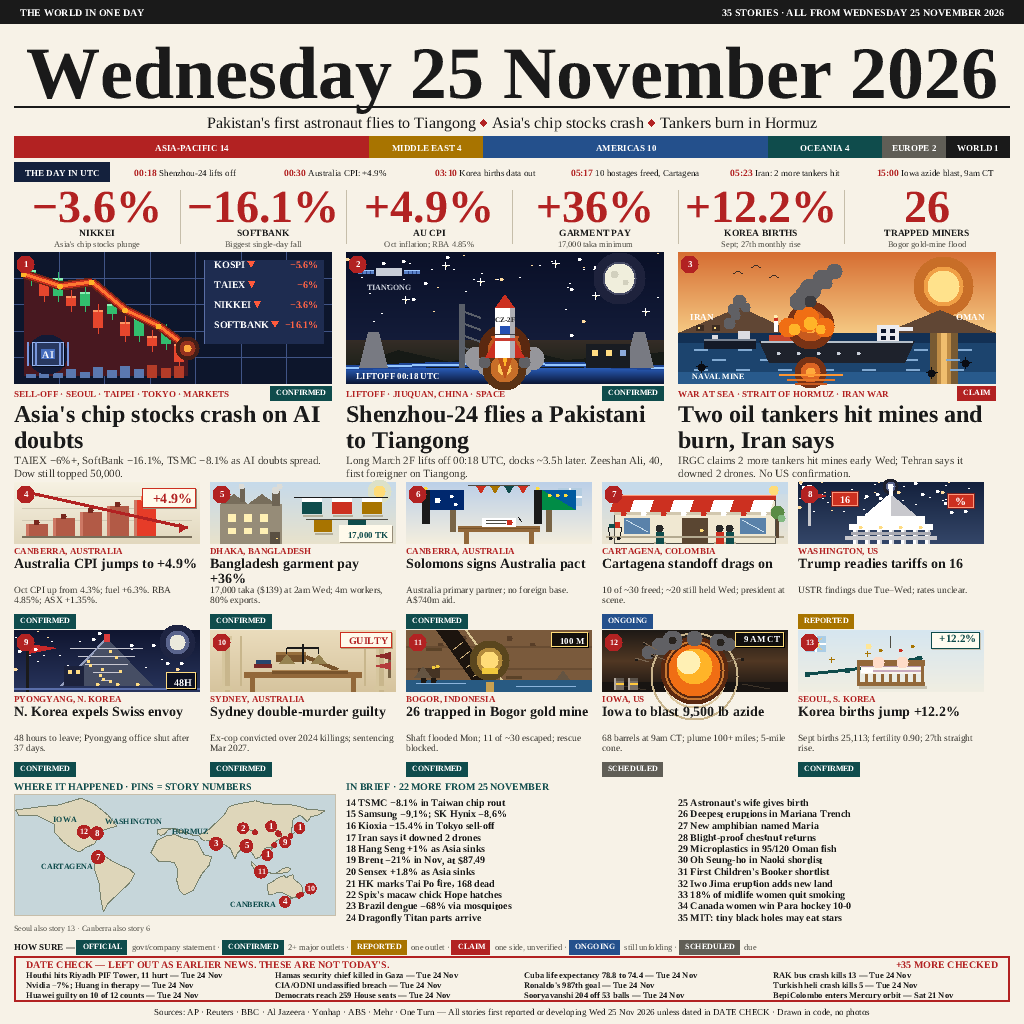
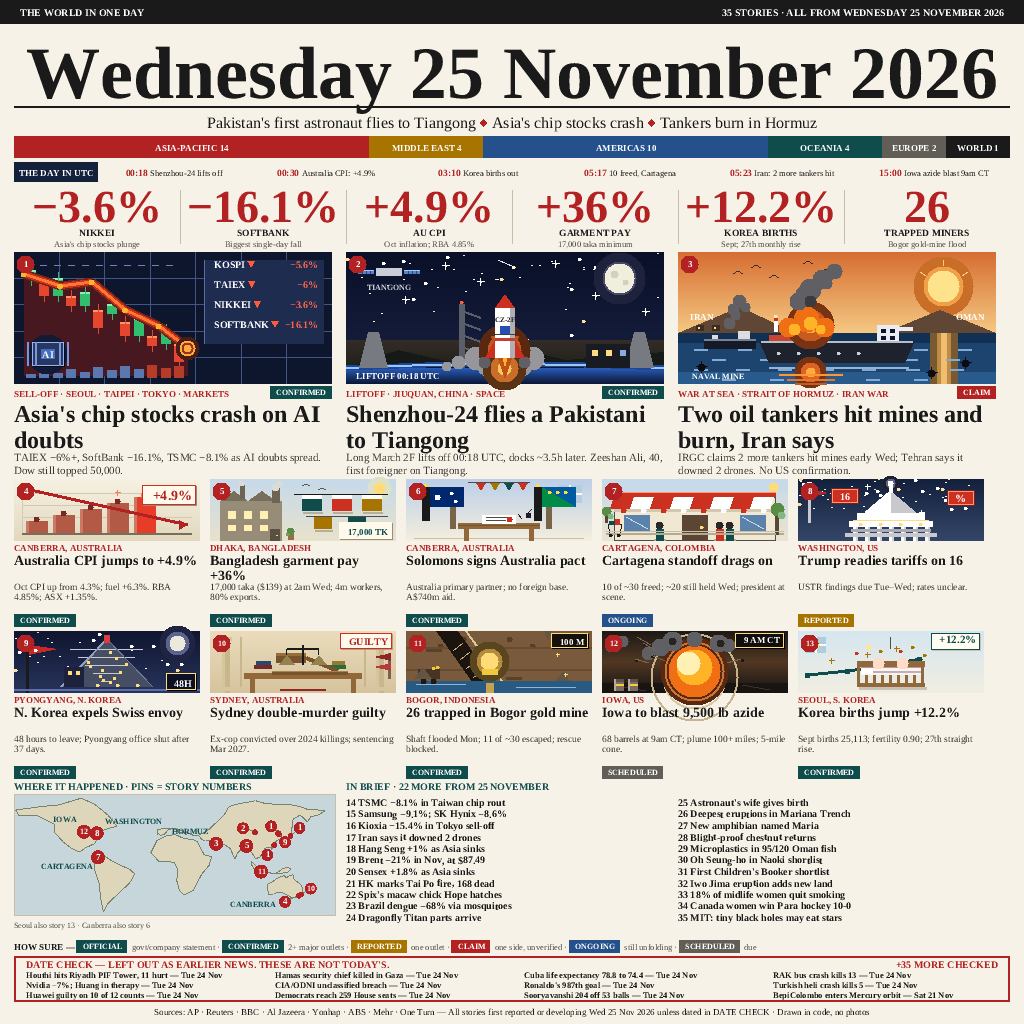
v2.3: clearance re-fix + further scene richness — Card 5 deck->pill 10px->13px (hero deck up 3px, small base 479, pitch 148->152, pill y+135, pill h 15->13); UTC strip label 8.5px + 3 labels shortened + box 96->84 (min gap 31.2->45.1px, trailing 21.2px); map note baseline 931->928 (6px above / 11px 

diff --git a/main.py b/main.py
@@ -736,10 +736,10 @@ STATS = [
 TIMELINE = [
     ("00:18", "Shenzhou-24 lifts off"),
     ("00:30", "Australia CPI: +4.9%"),
-    ("03:10", "Korea births data out"),
-    ("05:17", "10 hostages freed, Cartagena"),
+    ("03:10", "Korea births out"),
+    ("05:17", "10 freed, Cartagena"),
     ("05:23", "Iran: 2 more tankers hit"),
-    ("15:00", "Iowa azide blast, 9am CT"),
+    ("15:00", "Iowa azide blast 9am CT"),
 ]
 
 # (name, lat, lon, story number, label?)
@@ -838,7 +838,7 @@ def vgrad(cv, x, y, w, h, top, bot):
 def pill(cv, x, y, label, size=9):
     """Filled pill, left-anchored at x, top y; returns width."""
     w = int(text_width(label, size, True)) + 12
-    h = size + 7
+    h = size + 5
     cv.fill_rect(x, y, w, h, PILL_COLOR[label])
     cv.text(x + 6, y + size + 1, label, size, True, WHITE)
     return w
@@ -921,6 +921,10 @@ def scene_chart(cv, x, y, w, h):
     # glow at the last point (the fall's end)
     glow(cv, pts[-1][0], pts[-1][1], 12,
          [(70, 30, 22), (150, 50, 30), (255, 170, 60)])
+    # dashed resistance line near the top + bright ring on the end dot
+    for gx in range(x + 12, x + cw - 20, 14):
+        cv.fill_rect(gx, y + 13, 7, 1, (110, 130, 180))
+    cv.ring(pts[-1][0], pts[-1][1], 8, 6, (255, 170, 60))
     # volume bars along the bottom of the chart area (red on down days)
     vols = [4, 7, 5, 9, 6, 11, 8, 12, 9, 13, 10, 12]
     for i, vh in enumerate(vols):
@@ -971,6 +975,9 @@ def scene_rocket(cv, x, y, w, h):
         cv.line(sx - 4, sy, sx + 4, sy, WHITE, 1)
         cv.line(sx, sy - 4, sx, sy + 4, WHITE, 1)
         cv.circle(sx, sy, 1, (255, 240, 180))
+    # shooting star, top-center (clear of sparkles, station, moon)
+    cv.line(x + 152, y + 8, x + 168, y + 15, (220, 225, 240), 1)
+    cv.circle(x + 168, y + 15, 2, (255, 245, 200))
     # moon + halo
     glow(cv, x + w - 44, y + 26, 26,
          [(30, 34, 60), (70, 74, 100), (180, 180, 190)])
@@ -1021,6 +1028,10 @@ def scene_rocket(cv, x, y, w, h):
     cv.fill_rect(tx, y + 52, 6, h - 68, (90, 95, 105))
     for ty in range(y + 58, y + h - 22, 12):
         cv.line(tx, ty, tx + 22, ty + 8, (90, 95, 105), 2)
+    # red beacon on the tower top + smoke drifting left at the base
+    cv.circle(tx + 3, y + 50, 2, (255, 90, 70))
+    cv.circle(x + w // 2 - 46, y + h - 22, 7, (150, 150, 155))
+    cv.circle(x + w // 2 - 58, y + h - 18, 5, (150, 150, 155))
     # smoke clouds at base
     for (ox, oy, r) in ((-28, -8, 12), (-14, -4, 15), (0, -10, 13),
                         (14, -4, 15), (28, -8, 12)):
@@ -1073,9 +1084,16 @@ def scene_tanker(cv, x, y, w, h):
          [(200, 110, 40), (240, 160, 70), (255, 216, 130)])
     cv.circle(x + w - 52, y + 34, 16, (255, 226, 140))
     # birds
-    for (bx, by) in ((x + 60, y + 22), (x + 78, y + 16), (x + 96, y + 26)):
+    for (bx, by) in ((x + 60, y + 22), (x + 78, y + 16), (x + 96, y + 26),
+                     (x + 130, y + 12), (x + 148, y + 20)):
         cv.line(bx - 5, by, bx, by - 3, (60, 44, 36), 1)
         cv.line(bx, by - 3, bx + 5, by, (60, 44, 36), 1)
+    # sun rays (short, inside the glow zone)
+    sx, sy = x + w - 52, y + 34
+    for (ax, ay, bx, by) in ((sx - 24, sy - 14, sx - 18, sy - 10),
+                             (sx + 24, sy - 14, sx + 18, sy - 10),
+                             (sx, sy - 26, sx, sy - 20)):
+        cv.line(ax, ay, bx, by, (255, 200, 120), 1)
     # coast strips (two ridges: far pale, near dark)
     cv.fill_poly([(x, y + int(h * 0.62)), (x + 62, y + int(h * 0.46)),
                   (x + 118, y + int(h * 0.62))], (140, 104, 78))
@@ -1112,7 +1130,8 @@ def scene_tanker(cv, x, y, w, h):
     # layered wave crests (short bright dashes, staggered rows)
     for wy, xs in ((sy + 16, (16, 60, 104, 148, 192, 236, 280)),
                    (sy + 26, (34, 82, 130, 178, 226, 268)),
-                   (sy + 36, (16, 58, 100, 142, 184, 228, 272))):
+                   (sy + 36, (16, 58, 100, 142, 184, 228, 272)),
+                   (sy + 46, (44, 92, 140, 188, 236))):
         for ox in xs:
             cv.fill_rect(x + ox, wy, 14, 2, (130, 170, 210))
     # distant tanker (small, left) + its smoke wisp + hull highlight
@@ -1138,6 +1157,8 @@ def scene_tanker(cv, x, y, w, h):
     cv.fill_rect(tx + 131, ty - 5, 5, 4, NAVY_DK)
     cv.fill_rect(tx + 140, ty - 14, 14, 4, (235, 235, 240))
     cv.fill_rect(tx + 10, ty - 6, 60, 6, (200, 70, 45))
+    # pale wake trailing behind the hull (on the water below)
+    cv.fill_rect(tx + 10, ty + 26, 140, 2, (150, 180, 210))
     # fire glow + fire + smoke on deck
     glow(cv, tx + 52, ty - 16, 24,
          [(120, 50, 20), (200, 90, 30), (255, 170, 60)])
@@ -1189,8 +1210,13 @@ def scene_cpi(cv, x, y, w, h):
         cv.circle(bx + bw // 2, y + h - 10 - bh,
                   4 if i == 4 else 3,
                   (255, 120, 80) if i == 4 else (120, 40, 30))
-    # baseline axis
+    # baseline axis + vertical axis
     cv.fill_rect(x + 8, y + h - 8, w - 16, 2, (120, 110, 90))
+    cv.fill_rect(x + 8, y + 10, 1, h - 18, (210, 202, 180))
+    # sparkle above the 4th bar (clear of the chip, top-right)
+    sx = x + 12 + 3 * 27 + bw // 2
+    cv.line(sx - 3, y + 14, sx + 3, y + 14, (255, 120, 80), 1)
+    cv.line(sx, y + 11, sx, y + 17, (255, 120, 80), 1)
     cv.line(x + 12, y + h - 8 - 44, x + w - 12, y + h - 8 - 8, RED, 3)
     # arrowhead at the trend-line end
     ex, ey = x + w - 12, y + h - 8 - 8
@@ -1210,6 +1236,14 @@ def scene_garment(cv, x, y, w, h):
     # sun with glow
     glow(cv, x + w - 16, y + 9, 12, [(220, 225, 200), (255, 230, 150)])
     cv.circle(x + w - 16, y + 9, 6, (255, 220, 120))
+    # two birds, top-left (clear of the sun and chimneys)
+    for (bx, by) in ((x + 96, y + 7), (x + 112, y + 11)):
+        cv.line(bx - 4, by, bx, by - 2, (90, 90, 80), 1)
+        cv.line(bx, by - 2, bx + 4, by, (90, 90, 80), 1)
+    # potted plant by the factory door
+    cv.fill_rect(x + 78, y + 54, 6, 7, (150, 110, 70))
+    cv.circle(x + 81, y + 52, 4, (90, 140, 70))
+    cv.circle(x + 78, y + 55, 2, (110, 160, 90))
     # factory
     cv.fill_rect(x + 10, y + 22, 62, h - 22, (150, 140, 120))
     cv.fill_poly([(x + 10, y + 22), (x + 24, y + 12), (x + 38, y + 22),
@@ -1265,6 +1299,10 @@ def scene_treaty(cv, x, y, w, h):
     cv.fill_rect(x + 56, y + h - 16, 78, 3, (200, 192, 170))
     cv.fill_rect(x + 52, y + h - 18, 82, 6, WOOD)
     cv.fill_rect(x + 52, y + h - 16, 82, 1, (120, 84, 44))
+    # floor line under the table + inkwell right of the document
+    cv.fill_rect(x + 8, y + h - 3, w - 16, 1, (200, 192, 170))
+    cv.fill_rect(x + 120, y + h - 28, 5, 5, (30, 30, 36))
+    cv.line(x + 122, y + h - 28, x + 126, y + h - 32, INK, 1)
     cv.fill_rect(x + 58, y + h - 12, 5, 12, WOOD)
     cv.fill_rect(x + 123, y + h - 12, 5, 12, WOOD)
     cv.fill_rect(x + 76, y + h - 26, 34, 9, WHITE)
@@ -1346,6 +1384,12 @@ def scene_store(cv, x, y, w, h):
     cv.fill_rect(x + w - 12, y + 34, 3, 22, (90, 70, 50))
     cv.circle(x + w - 10, y + 30, 7, (90, 140, 70))
     cv.circle(x + w - 6, y + 36, 4, (130, 185, 130))
+    # second small tree, left edge (clear of the window and cart)
+    cv.fill_rect(x + 3, y + 36, 3, 8, (90, 70, 50))
+    cv.circle(x + 5, y + 32, 5, (90, 140, 70))
+    cv.circle(x + 9, y + 37, 3, (130, 185, 130))
+    # pavement edge line above the cart strip
+    cv.fill_rect(x + 4, y + h - 10, w - 8, 1, (200, 190, 165))
 
 
 def scene_tariffs(cv, x, y, w, h):
@@ -1372,9 +1416,14 @@ def scene_tariffs(cv, x, y, w, h):
     cv.fill_rect(dx - 2, y + 6, 4, 8, WHITE)
     cv.circle(dx, y + 4, 3, WHITE)
     cv.fill_rect(dx - 42, y + 42, 84, 6, WHITE)
-    # warm lit dots on the architrave band
+    # warm lit dots on the architrave band + thin gold line above them
     for wx in (dx - 30, dx - 10, dx + 10, dx + 30):
         cv.circle(wx, y + 45, 2, (255, 220, 130))
+    cv.fill_rect(dx - 38, y + 41, 76, 1, (255, 220, 130))
+    # two sparkles in the night sky (clear of flag, tags, dome)
+    for (sx, sy) in ((x + 70, y + 8), (x + w - 62, y + 34)):
+        cv.line(sx - 3, sy, sx + 3, sy, WHITE, 1)
+        cv.line(sx, sy - 3, sx, sy + 3, WHITE, 1)
     for cx in range(dx - 38, dx + 40, 12):
         cv.fill_rect(cx, y + 48, 5, 14, WHITE)
         cv.fill_rect(cx + 3, y + 48, 2, 14, (210, 210, 215))
@@ -1410,12 +1459,14 @@ def scene_pyongyang(cv, x, y, w, h):
         t = (wy - (y + 8)) / max(1, (y + h - 6) - (y + 8))
         hw = 46 * (1 - t)
         cv.fill_rect(px - hw, wy, 2 * hw, 1, (200, 200, 210))
-    # left-edge highlight on the pyramid
+    # left-edge highlight on the pyramid + right-slope highlight
     cv.line(px - 46, y + h - 6, px, y + 8, (150, 160, 190), 2)
+    cv.line(px + 46, y + h - 6, px, y + 8, (110, 118, 150), 1)
     # lit windows on the pyramid (warm dots, all inside the slopes)
     for (wx, wy) in ((px - 20, y + 30), (px + 8, y + 26), (px - 6, y + 38),
                      (px + 12, y + 40), (px - 5, y + 48), (px + 2, y + 20),
-                     (px - 8, y + 44), (px + 2, y + 50), (px - 18, y + 34)):
+                     (px - 8, y + 44), (px + 2, y + 50), (px - 18, y + 34),
+                     (px + 18, y + 32), (px + 6, y + 46)):
         cv.fill_rect(wx, wy, 3, 3, (255, 220, 130))
     cv.fill_rect(px - 3, y + 4, 6, 8, (220, 60, 60))
     # smaller building silhouette, left (clear of flag + 48H chip)
@@ -1460,9 +1511,13 @@ def scene_court(cv, x, y, w, h):
     cv.fill_rect(x + 34, y + h - 20, w - 68, 6, WOOD)
     cv.fill_rect(x + 40, y + h - 14, 5, 14, WOOD)
     cv.fill_rect(x + w - 45, y + h - 14, 5, 14, WOOD)
-    # books on the bench, left
+    # books on the bench, left + a second stack, right
     cv.fill_rect(x + 44, y + h - 28, 18, 4, (120, 40, 40))
     cv.fill_rect(x + 46, y + h - 32, 15, 4, (40, 70, 110))
+    cv.fill_rect(x + w - 66, y + h - 28, 16, 4, (40, 110, 60))
+    cv.fill_rect(x + w - 64, y + h - 32, 13, 4, (150, 120, 50))
+    # rug on the floor between the bench legs
+    cv.fill_rect(x + 70, y + h - 4, 46, 2, (140, 40, 40))
     # gavel
     cv.fill_poly([(x + 66, y + 22), (x + 96, y + 22), (x + 96, y + 32),
                   (x + 66, y + 32)], (120, 84, 44))
@@ -1541,6 +1596,12 @@ def scene_mine(cv, x, y, w, h):
                   (x + 17, y + h - 26)], (100, 84, 66))
     cv.fill_poly([(x + 150, y + h - 12), (x + 164, y + h - 12),
                   (x + 157, y + h - 22)], (100, 84, 66))
+    # stalactite from the top edge (clear of the rope) + gold glints
+    cv.fill_poly([(x + 138, y), (x + 146, y), (x + 142, y + 10)],
+                 (100, 84, 66))
+    for (gx, gy) in ((x + 160, y + h - 18), (x + 152, y + 24)):
+        cv.line(gx - 2, gy, gx + 2, gy, (255, 220, 120), 1)
+        cv.line(gx, gy - 2, gx, gy + 2, (255, 220, 120), 1)
     # dark chip behind the 100 M metric (shadow + outline)
     tw = text_width("100 M", 9, True)
     cv.fill_rect(x + w - 7 - tw - 8, y + 3, tw + 12, 15, (0, 0, 0))
@@ -1579,6 +1640,11 @@ def scene_blast(cv, x, y, w, h):
         cv.circle(cx + ox, cy + oy, r, SMOKE)
     for (ox, oy, r) in ((-22, -36, 4), (26, -34, 4)):
         cv.circle(cx + ox, cy + oy, r, (40, 35, 30))
+    # two more smoke puffs, upper left (clear of the 9 AM CT chip)
+    cv.circle(cx - 72, cy - 36, 6, SMOKE)
+    cv.circle(cx - 84, cy - 30, 5, SMOKE)
+    # one more debris streak, upper left
+    cv.line(cx - 58, cy - 40, cx - 44, cy - 32, (120, 100, 80), 1)
     # flying debris (kept clear of the 9 AM CT chip, top-right)
     for (dx, dy) in ((cx - 44, cy - 22), (cx + 46, cy - 18),
                      (cx - 52, cy - 34), (cx - 60, cy - 18)):
@@ -1650,6 +1716,11 @@ def scene_births(cv, x, y, w, h):
     cv.circle(cx + 10, y + 20, 2, RED_BR)
     cv.circle(cx - 22, y + 16, 3, (255, 230, 150))
     cv.circle(cx + 22, y + 16, 2, AMBER)
+    # two more mobile stars + one more sparkle above the curve
+    cv.circle(cx - 34, y + 22, 2, RED_BR)
+    cv.circle(cx + 34, y + 24, 2, AMBER)
+    cv.line(x + 96, y + 18, x + 102, y + 18, AMBER, 1)
+    cv.line(x + 99, y + 15, x + 99, y + 21, AMBER, 1)
     # white chip behind the +12.2% metric (shadow + TEAL outline)
     tw = text_width("+12.2%", 11, True)
     cv.fill_rect(x + w - 7 - tw - 8, y + 3, tw + 12, 17, (200, 196, 180))
@@ -1725,15 +1796,15 @@ def draw_region(cv):
 
 
 def draw_timeline(cv):
-    cv.fill_rect(M, 162, 96, 20, NAVY)
-    cv.text(M + 48, 176, "THE DAY IN UTC", 9, True, WHITE, align="center")
-    cell = (CW - 96) / 6
+    cv.fill_rect(M, 162, 84, 20, NAVY)
+    cv.text(M + 42, 176, "THE DAY IN UTC", 9, True, WHITE, align="center")
+    cell = (CW - 84) / 6
     for i, (t, label) in enumerate(TIMELINE):
         w = (text_width(t, 9.5, True) + text_width(" ", 9.5, True)
-             + text_width(label, 9, False))
-        x = M + 96 + i * cell + (cell - w) / 2
+             + text_width(label, 8.5, False))
+        x = M + 84 + i * cell + (cell - w) / 2
         cv.text(x, 176, t, 9.5, True, RED)
-        cv.text(x + text_width(t + " ", 9.5, True), 176, label, 9, False,
+        cv.text(x + text_width(t + " ", 9.5, True), 176, label, 8.5, False,
                 INK)
 
 
@@ -1764,14 +1835,14 @@ def draw_heroes(cv):
             cv.text(x, 422 + k * 26, ln, 24, True, INK)
         dlines = wrap_text(deck, 11, False, 318)
         for k, ln in enumerate(dlines):
-            cv.text(x, 464 + k * 13, ln, 11, False, DECK_GREY)
+            cv.text(x, 461 + k * 13, ln, 11, False, DECK_GREY)
 
 
 def draw_small(cv):
     for i, (head, deck, p, kick, key) in enumerate(SMALL):
         row, col = divmod(i, 5)
         x = M + col * 196
-        y = 482 + row * 148
+        y = 479 + row * 152
         SCENES[key](cv, x, y, 186, 62)
         num_badge(cv, x + 12, y + 12, i + 4, 9)
         cv.text(x, y + 72, kick, 9, True, RED)
@@ -1781,7 +1852,7 @@ def draw_small(cv):
         dlines = wrap_text(deck, 9.5, False, 186)
         for k, ln in enumerate(dlines):
             cv.text(x, y + 111 + k * 10, ln, 9.5, False, DECK_GREY)
-        pill(cv, x, y + 132, p, 8)
+        pill(cv, x, y + 135, p, 8)
 
 
 def _project(lon, lat):
@@ -1846,7 +1917,7 @@ def draw_map(cv):
         if name in label_dx:
             dx, dy, al = label_dx[name]
             cv.text(x + dx, y + dy, name.upper(), 8, True, TEAL, align=al)
-    cv.text(M, 931, "Seoul also story 13 \u00b7 Canberra also story 6",
+    cv.text(M, 928, "Seoul also story 13 \u00b7 Canberra also story 6",
             8, False, INK_SOFT)
 
 
